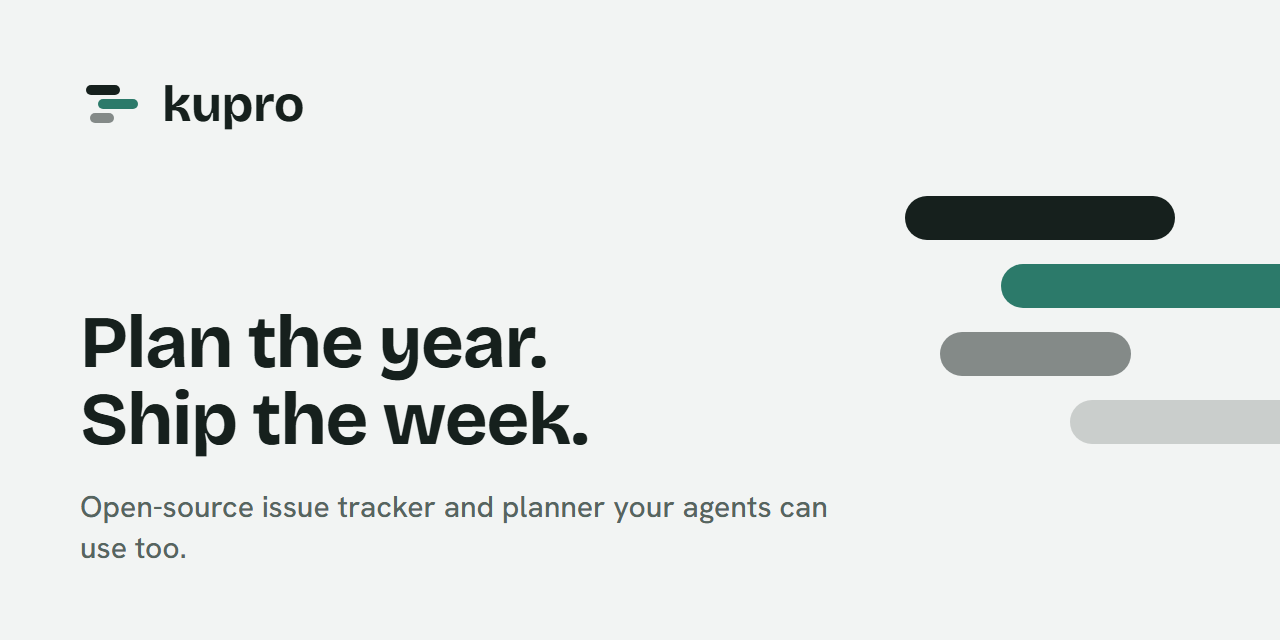
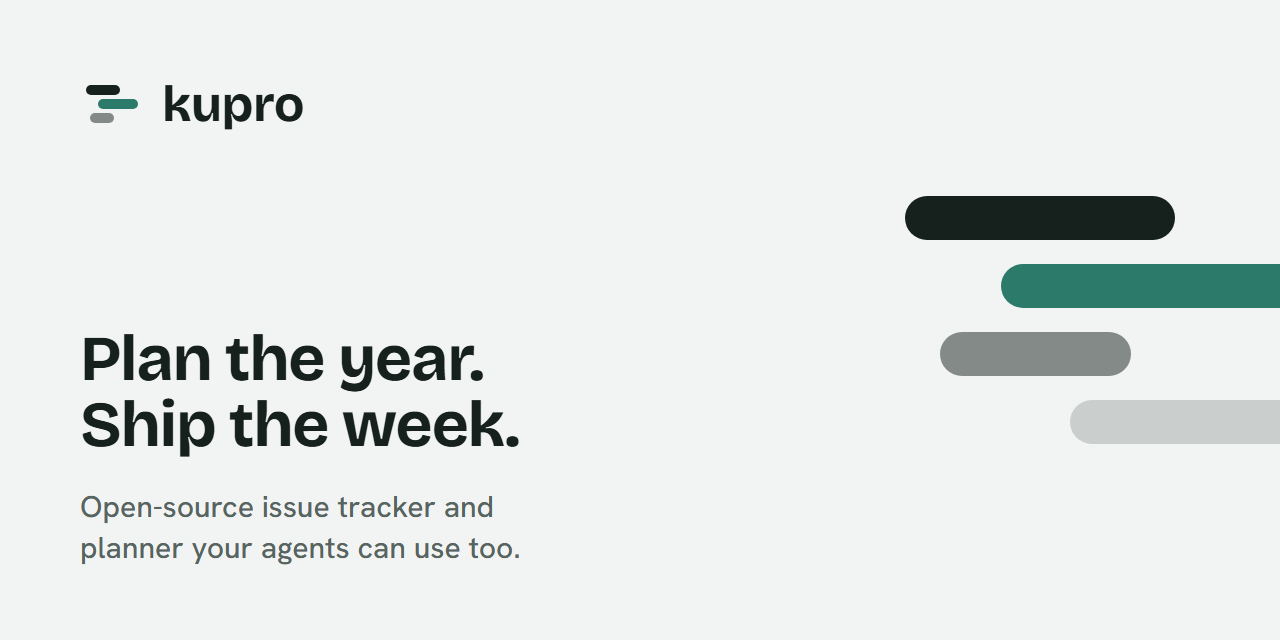
feat(brand): LinkedIn cover and tagline in social cards
Cards render from the hero copy at 2x for the LinkedIn cover, which
is uploaded by hand. Tagline moves to "Talk it through".

Changed region(s): [[0.0625, 0.5, 0.4688, 0.7188], [0.0625, 0.8438, 0.4062, 0.875], [0.375, 0.7812, 0.6562, 0.8125]]

diff --git a/scripts/brand-images.ts b/scripts/brand-images.ts
@@ -56,12 +56,29 @@ const card = (title: string, detail: string) =>
       `main{position:absolute;left:80px;top:72px;bottom:72px;width:62%;display:flex;flex-direction:column}` +
       `.lockup{display:flex;align-items:center;gap:18px;font:700 50px Display;letter-spacing:-.01em}` +
       `.lockup svg{width:64px;height:64px}` +
-      `h1{margin-top:auto;font:700 74px/1.04 Display;letter-spacing:-.02em;text-wrap:balance}` +
-      `p{margin-top:28px;font:500 30px/1.35 Ui;color:${MUTE}}` +
+      `h1{margin-top:auto;font:700 64px/1.04 Display;letter-spacing:-.02em;text-wrap:balance}` +
+      `p{margin-top:28px;font:500 30px/1.35 Ui;color:${MUTE};text-wrap:balance}` +
       `.plan{position:absolute;right:-60px;top:50%;width:34%;height:248px;transform:translateY(-50%)}` +
       `.plan i{position:absolute;height:44px;border-radius:22px;background:${INK}}` +
       `.plan i:nth-child(1){top:0}.plan i:nth-child(2){top:68px}.plan i:nth-child(3){top:136px}.plan i:nth-child(4){top:204px}` +
       `.plan .acc{background:${VERDIGRIS}}.plan .dim{opacity:.5}.plan i:nth-child(4){opacity:.18}`,
+  );
+
+/** LinkedIn cover: headline and detail centred, plan bars off the right. The page logo overlaps the bottom-left and
+ *  mobile crops the sides, so nothing sits in the left quarter. */
+const banner = (title: string, detail: string) =>
+  page(
+    `<main><h1>${title}</h1><p>${detail}</p></main>` +
+      `<div class="plan"><i style="left:0;width:62%"></i><i class="acc" style="left:22%;width:78%"></i>` +
+      `<i class="dim" style="left:8%;width:44%"></i></div>`,
+    `body{background:${KALK};color:${INK};font-family:Ui;position:relative;overflow:hidden}` +
+      `main{position:absolute;left:25%;right:24%;top:0;bottom:0;display:flex;flex-direction:column;justify-content:center}` +
+      `h1{font:700 30px/1.1 Display;letter-spacing:-.02em;text-wrap:balance}` +
+      `p{margin-top:10px;font:500 17px/1.35 Ui;color:${MUTE}}` +
+      `.plan{position:absolute;right:-40px;top:50%;width:18%;height:96px;transform:translateY(-50%)}` +
+      `.plan i{position:absolute;height:24px;border-radius:12px;background:${INK}}` +
+      `.plan i:nth-child(1){top:0}.plan i:nth-child(2){top:36px}.plan i:nth-child(3){top:72px}` +
+      `.plan .acc{background:${VERDIGRIS}}.plan .dim{opacity:.5}`,
   );
 
 /** ICO holding PNG images (supported by every browser that still asks for /favicon.ico). */
@@ -84,8 +101,8 @@ const ico = (pngs: { size: number; png: Buffer }[]) => {
 };
 
 const browser = await chromium.launch();
-const render = async (html: string, width: number, height = width) => {
-  const tab = await browser.newPage({ viewport: { width, height } });
+const render = async (html: string, width: number, height = width, deviceScaleFactor = 1) => {
+  const tab = await browser.newPage({ viewport: { width, height }, deviceScaleFactor });
   await tab.setContent(html);
   await tab.evaluate(() => document.fonts.ready);
   const png = await tab.screenshot({ omitBackground: true });
@@ -119,5 +136,7 @@ write('site/public/og-image.png', await render(card(en.hero.title, en.meta.ogDet
 write('site/public/og-image-da.png', await render(card(da.hero.title, da.meta.ogDetail), 1200, 630));
 // GitHub → Settings → Social preview (uploaded by hand); speaks to contributors, so the product tagline.
 write('docs/images/social-preview.png', await render(card('Plan the year. Ship the week.', 'Open-source issue tracker and planner your agents can use too.'), 1280, 640));
+// LinkedIn company page → Edit page → Cover image (uploaded by hand; 1128×191 at 2× so it stays sharp).
+write('docs/images/linkedin-banner.png', await render(banner(en.hero.title, en.meta.ogDetail), 1128, 191, 2));
 
 await browser.close();

diff --git a/docs/branding.md b/docs/branding.md
@@ -59,8 +59,9 @@ middle bar in verdigris: the piece of work currently in flow.
 
 Raster files are rendered from the mark by `bun scripts/brand-images.ts`, never drawn by hand: `favicon.ico` and the
 app icons (listed in `manifest.json`) in `web/public/` and `site/public/`, the site's social cards (`og-image.png`,
-`og-image-da.png`, headline from the hero copy), Keycloak's login favicon, and the GitHub
-[social preview](images/social-preview.png). The script keeps its own copy of the mark geometry and palette and does
+`og-image-da.png`, headline from the hero copy), Keycloak's login favicon, the GitHub
+[social preview](images/social-preview.png) and the LinkedIn [cover image](images/linkedin-banner.png) (the page logo
+is `icon-512.png`). The script keeps its own copy of the mark geometry and palette and does
 not read the SVGs above: after changing the mark or palette, edit the constants in the script too, then rerun it (a
 headline change only needs the rerun).
 
@@ -153,6 +154,8 @@ Mechanics of i18n: [ADR-011](adr/ADR-011-i18n.md). Domain definitions: [ADR-008]
 
 ## Taglines
 
-Primary: **Plan the year. Ship the week.** (DA: *Planlæg året. Lever ugen.*)
+Primary: **Talk it through. Kupro keeps the tracker up to date.** (DA: *Tal det igennem. Kupro holder styr på
+opgaverne.*) Site headline, social cards, LinkedIn. The point: no more moving issues, fixing titles or assigning by hand,
+so people can focus on talking to each other. Comes from [vision.md](vision.md).
 
-Alternates: "The issue tracker your agents can use too." · "European. Fast. Built to plan."
+Alternates: "Plan the year. Ship the week." (contributors, GitHub) · "The issue tracker your agents can use too."
